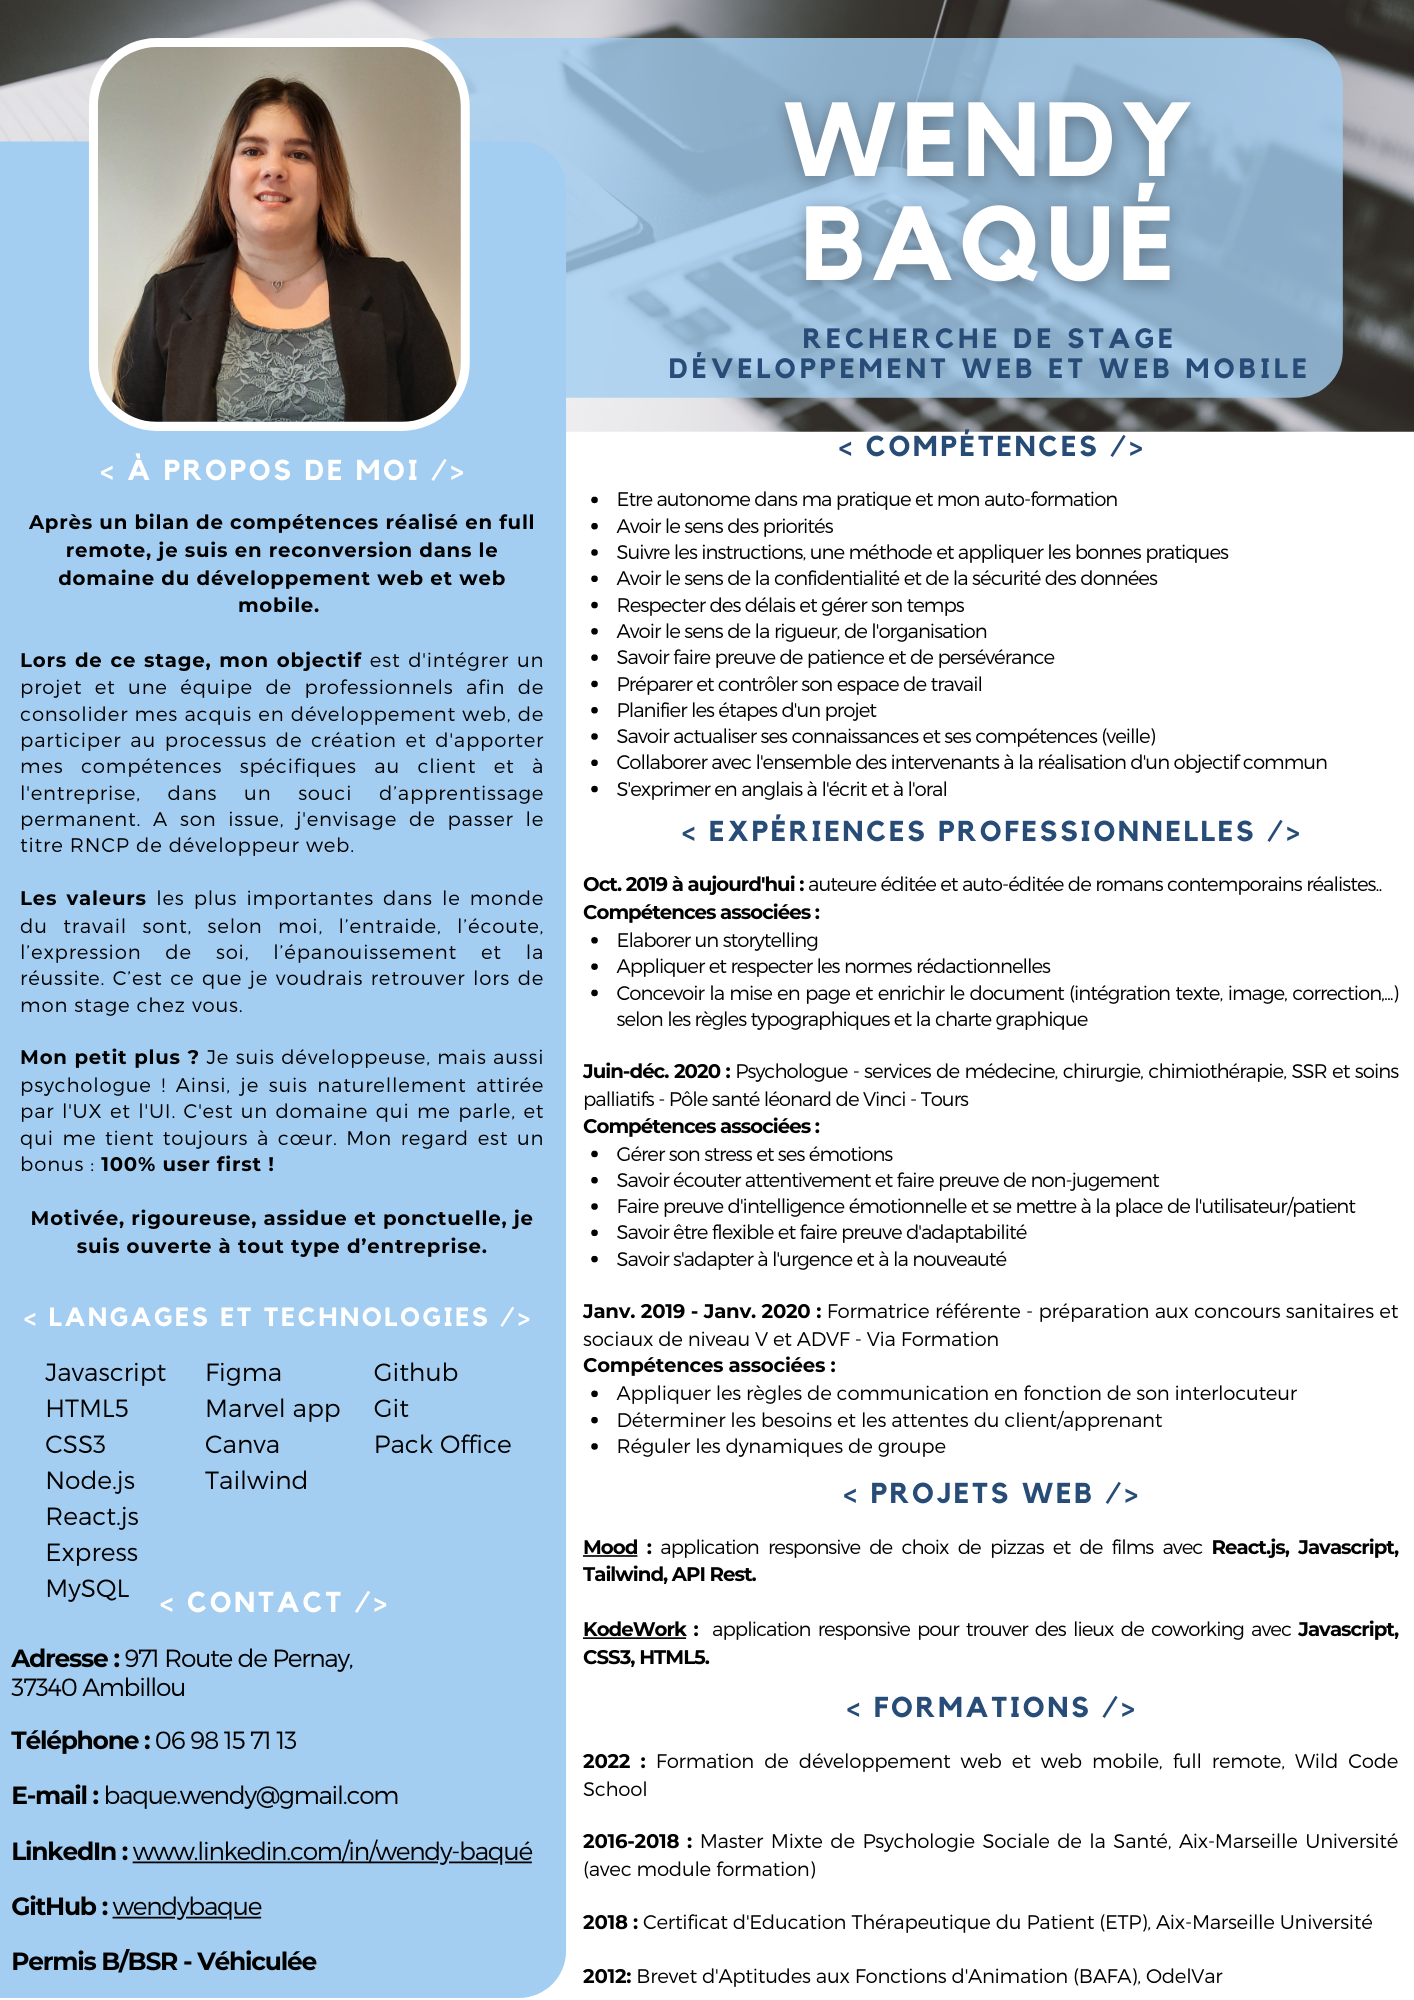
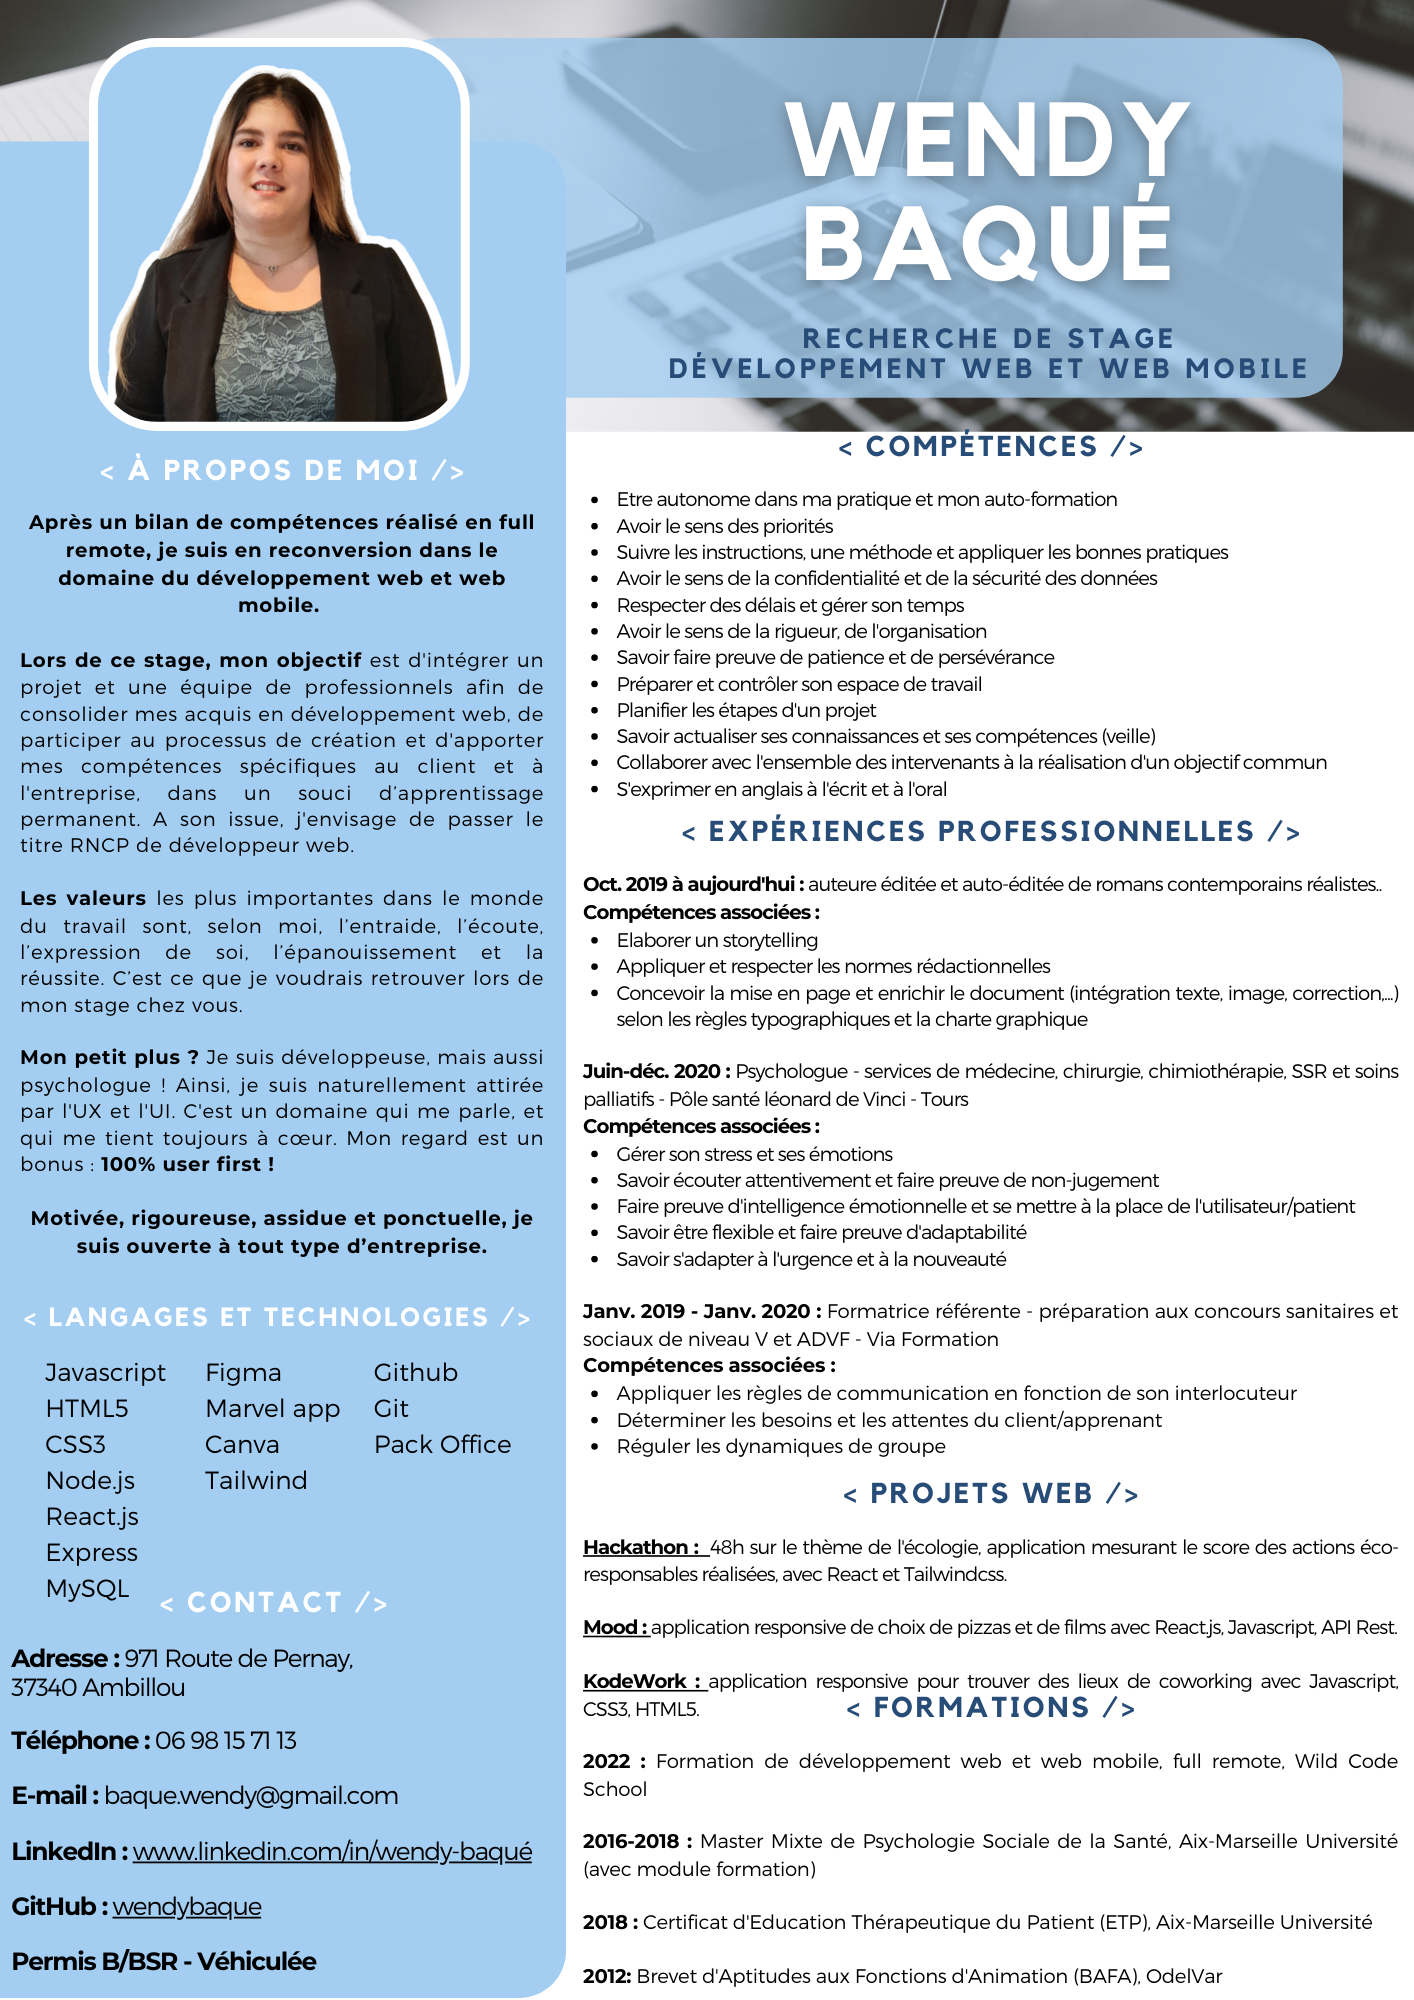
Change cv to update it with last projects

Changed region(s): [[0.0622, 0.0, 0.3423, 0.217], [0.4045, 0.775, 0.9958, 0.868]]

diff --git a/frontend/src/components/About.jsx b/frontend/src/components/About.jsx
@@ -1,6 +1,6 @@
 import React from "react";
 import "./about.css";
-import cvportfolio from "../assets/cvportfolio.png";
+import cvportfolio1 from "../assets/CVportfolio.png";
 import logoauteure from "../assets/logoauteure.png";
 
 function About() {
@@ -9,7 +9,11 @@ function About() {
       <div className="about-left">
         {/* <div className="about-card bg" /> */}
         <div className="about-card">
-          <img src={cvportfolio} alt="curriculum vitae" className="about-img" />
+          <img
+            src={cvportfolio1}
+            alt="curriculum vitae"
+            className="about-img"
+          />
         </div>
       </div>
       <div className="about-right">
